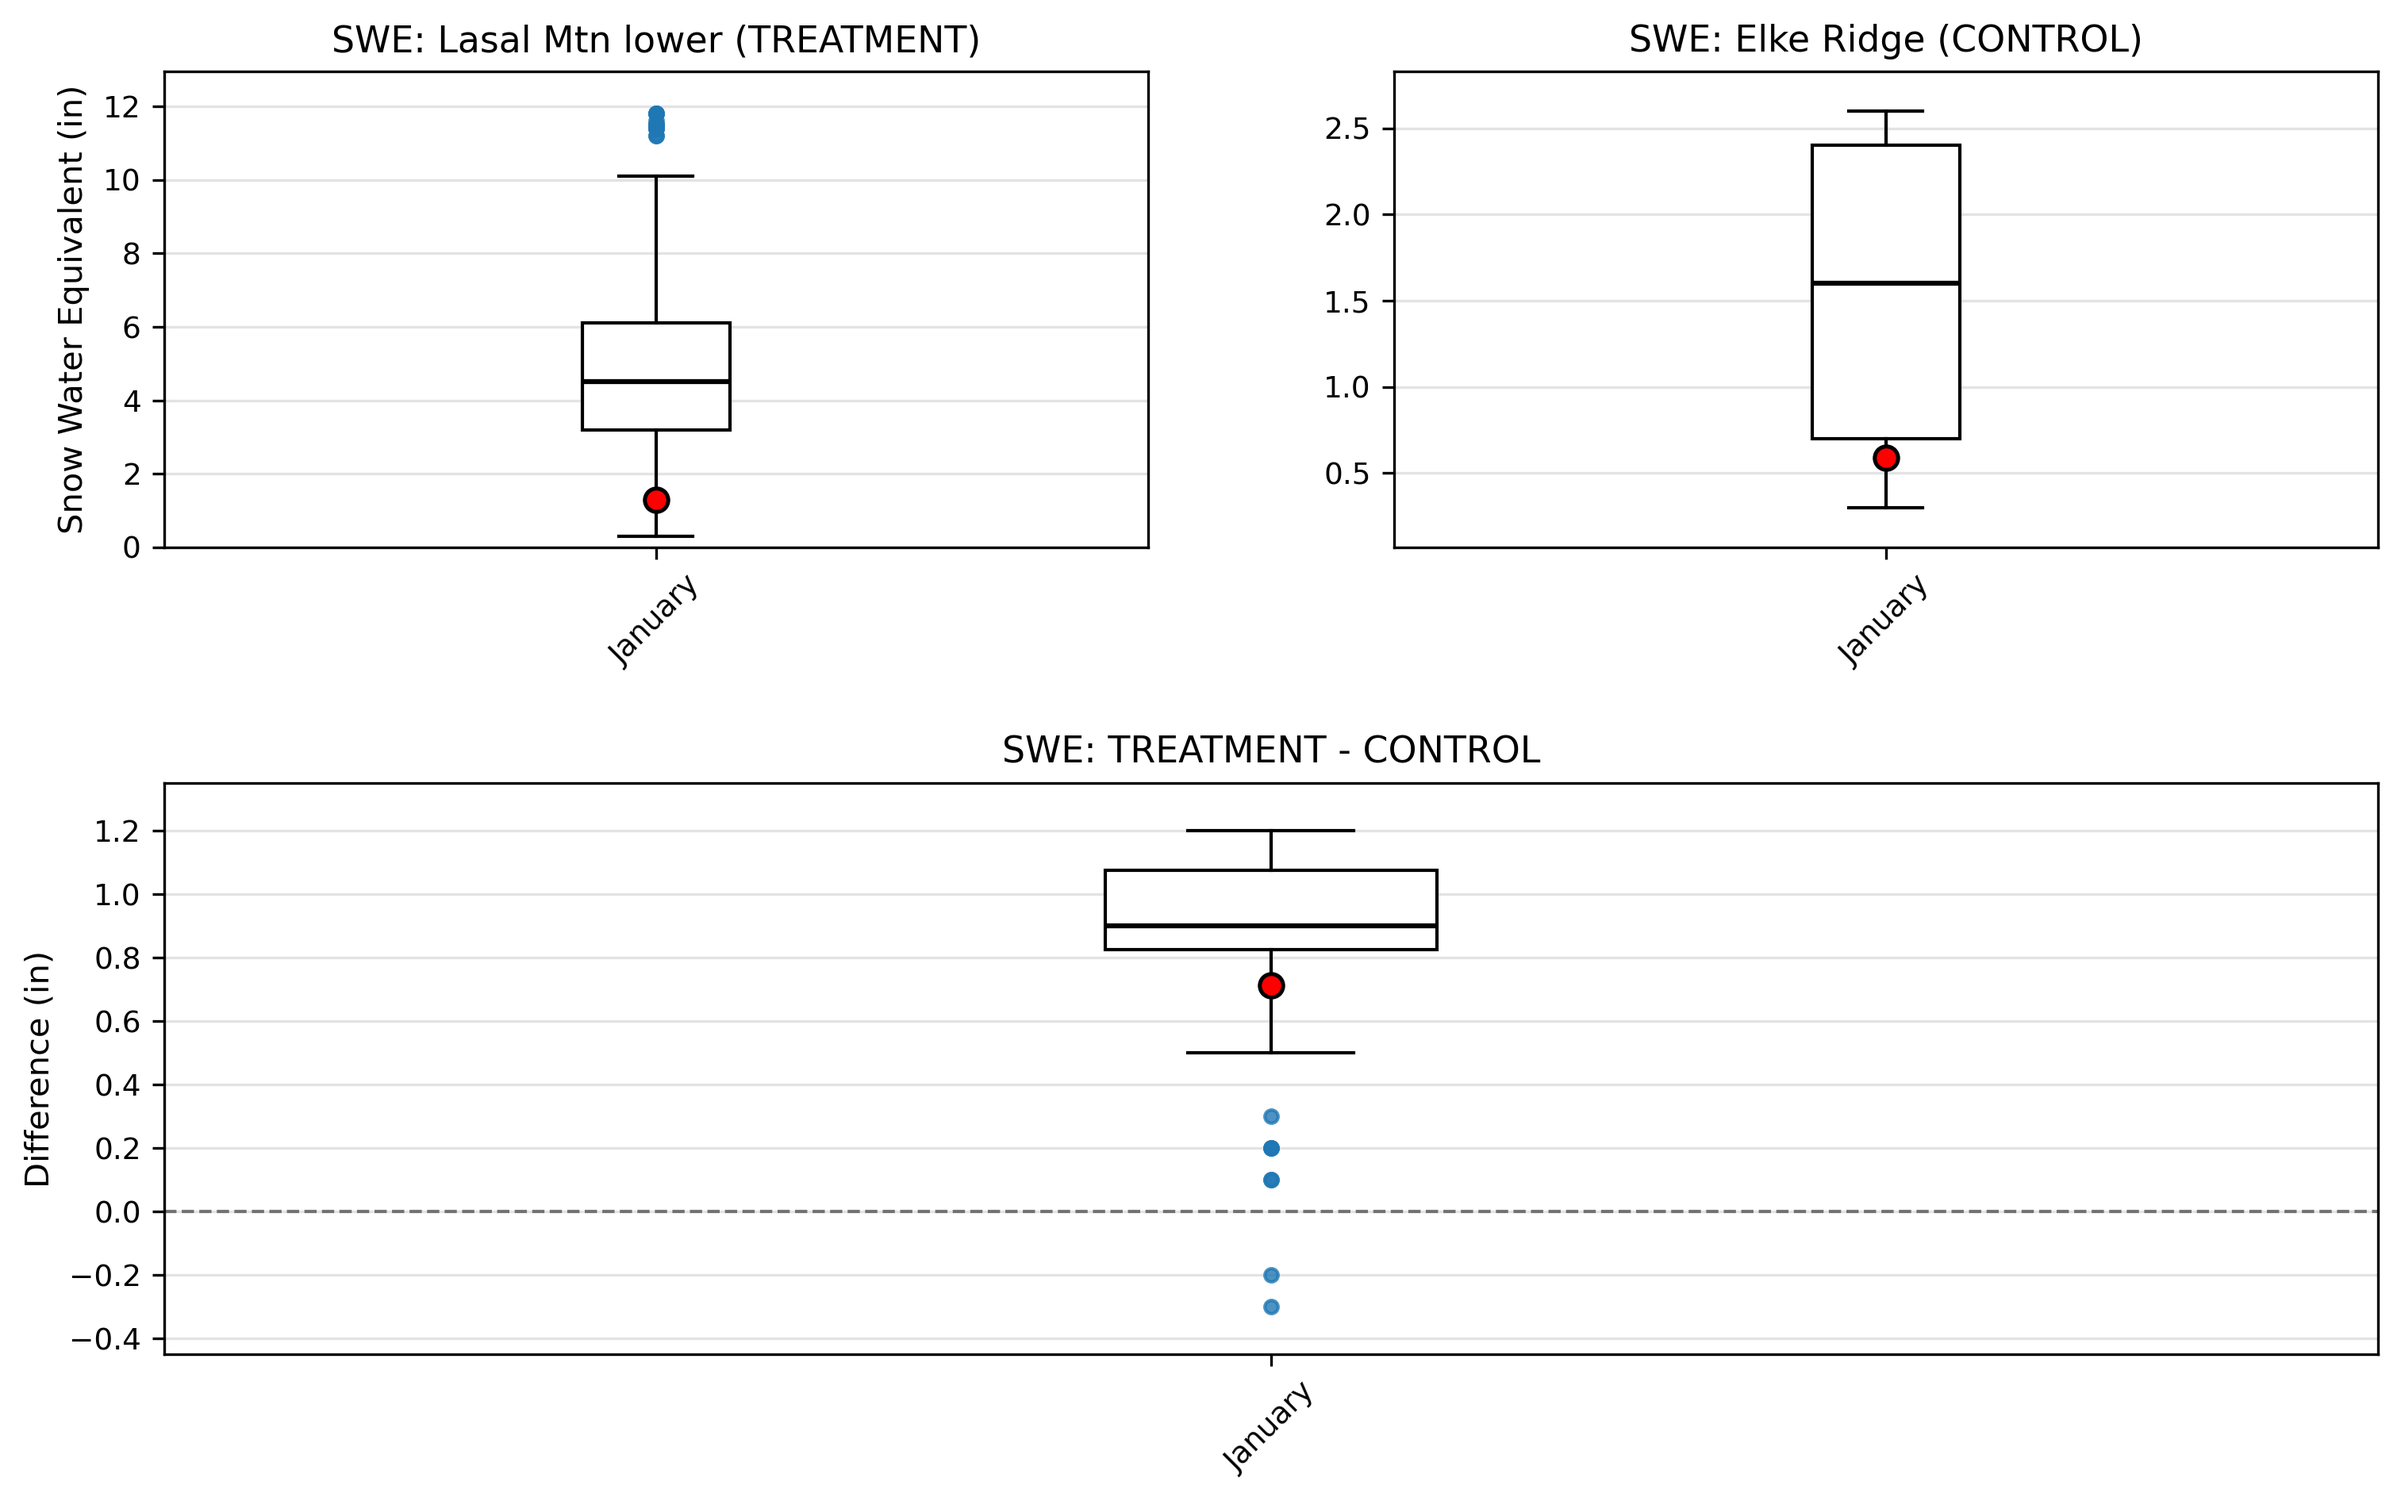
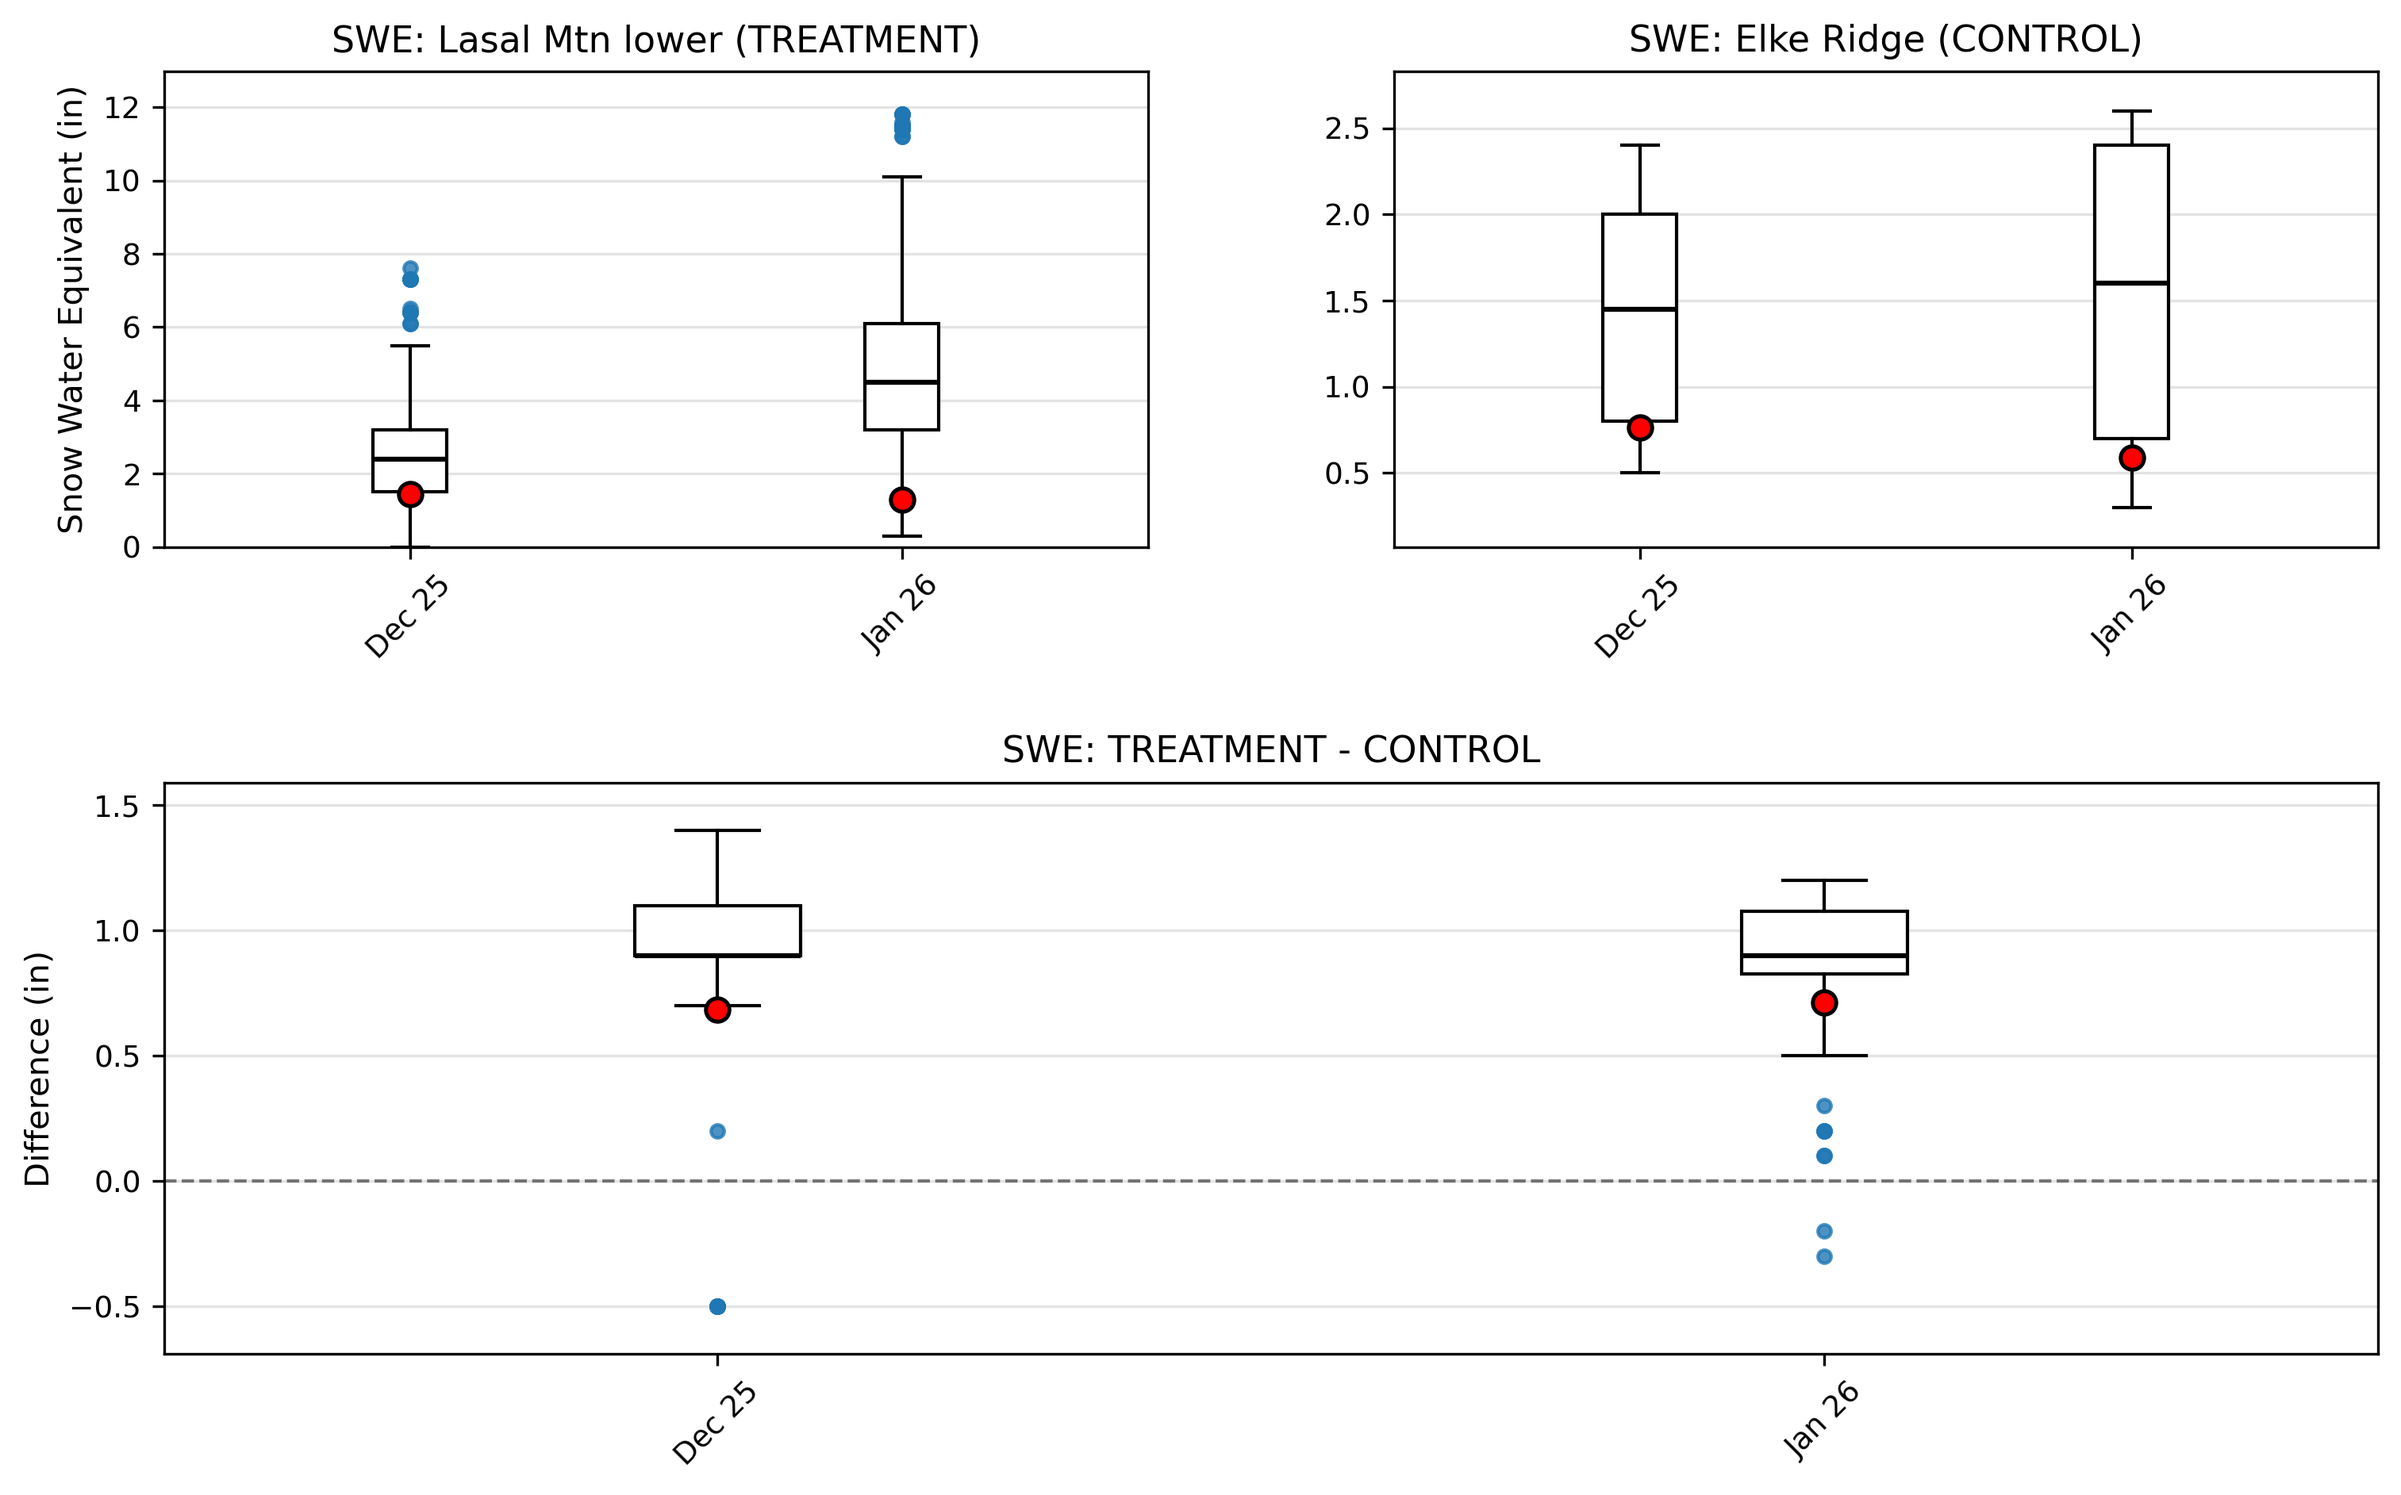
Boxplots: add December + January climatology with Dec(prev yr) and Jan(current yr) red markers
Made-with: Cursor

diff --git a/scripts/plot_generators.py b/scripts/plot_generators.py
@@ -317,55 +317,76 @@ def plot_snow_depth_boxplots(treatment_station, control_station, month, year,
     control_df['month'] = control_df['Date'].dt.month
     control_df['year'] = control_df['Date'].dt.year
     
-    # Only show the month of interest
+    # We want climatological December and January boxplots, with Dec of the
+    # previous year and Jan of the report year highlighted, similar to the
+    # February report figure.
     month_name = calendar.month_name[highlight_month] if highlight_month else calendar.month_name[month]
     target_month = highlight_month if highlight_month else month
     
-    treatment_groups = []
-    control_groups = []
-    diff_groups = []
-    labels = []
+    # Build groups for December (previous year) and January (report year)
+    months_to_plot = [12, target_month]
+    month_labels = [
+        f"Dec {str(year-1)[-2:]}",
+        f"{month_name[:3]} {str(year)[-2:]}"
+    ]
     
-    highlight_idx = None
-    highlight_vals = None
-    highlight_label = None
+    treatment_groups: list[np.ndarray] = []
+    control_groups: list[np.ndarray] = []
+    diff_groups: list[np.ndarray] = []
+    labels: list[str] = []
     
-    # Climatological boxplot: all years of the target month (e.g. all January values), with highlight_year highlighted
-    t_data = treatment_df[treatment_df['month'] == target_month]['Value'].dropna().values
-    c_data = control_df[control_df['month'] == target_month]['Value'].dropna().values
+    highlight_idxs: list[int] = []
+    highlight_t: list[float] = []
+    highlight_c: list[float] = []
+    highlight_d: list[float] = []
     
-    if len(t_data) > 0 and len(c_data) > 0:
-        # Merge on date to get differences for all years
-        t_month = treatment_df[treatment_df['month'] == target_month].set_index('Date')['Value']
-        c_month = control_df[control_df['month'] == target_month].set_index('Date')['Value']
+    for idx, (m, label) in enumerate(zip(months_to_plot, month_labels), start=1):
+        t_data = treatment_df[treatment_df['month'] == m]['Value'].dropna().values
+        c_data = control_df[control_df['month'] == m]['Value'].dropna().values
+        
+        if len(t_data) == 0 or len(c_data) == 0:
+            continue
+        
+        # Merge on date to get differences for all years for this month
+        t_month = treatment_df[treatment_df['month'] == m].set_index('Date')['Value']
+        c_month = control_df[control_df['month'] == m].set_index('Date')['Value']
         
         merged = pd.DataFrame({'Treatment': t_month, 'Control': c_month})
         merged = merged.dropna()
         merged['Diff'] = merged['Treatment'] - merged['Control']
         
-        if len(merged) > 0:
-            treatment_groups.append(t_data)
-            control_groups.append(c_data)
-            diff_groups.append(merged['Diff'].values)
-            labels.append(month_name)
-            
-            # Highlight only the highlight year (e.g. January 2026) — mean of that month in that year
-            if highlight_year:
-                highlight_idx = 1  # One box, index 1
-                merged_yr = merged[merged.index.year == highlight_year]
-                if len(merged_yr) > 0:
-                    highlight_vals = {
-                        't': float(merged_yr['Treatment'].mean()),
-                        'c': float(merged_yr['Control'].mean()),
-                        'd': float(merged_yr['Diff'].mean())
-                    }
-                else:
-                    highlight_vals = None
-                highlight_label = None
+        if len(merged) == 0:
+            continue
+        
+        treatment_groups.append(t_data)
+        control_groups.append(c_data)
+        diff_groups.append(merged['Diff'].values)
+        labels.append(label)
+        
+        # Highlight year: previous year for December, report year for January
+        if m == 12:
+            hy = year - 1
+        else:
+            hy = year
+        
+        merged_yr = merged[merged.index.year == hy]
+        if len(merged_yr) > 0:
+            highlight_idxs.append(idx)
+            highlight_t.append(float(merged_yr['Treatment'].mean()))
+            highlight_c.append(float(merged_yr['Control'].mean()))
+            highlight_d.append(float(merged_yr['Diff'].mean()))
     
     if not labels:
-        print("Warning: No overlapping data found")
+        print("Warning: No overlapping data found for December/January")
         return None
+    
+    highlight_vals = None
+    if highlight_idxs and highlight_t and highlight_c and highlight_d:
+        highlight_vals = {
+            't': highlight_t,
+            'c': highlight_c,
+            'd': highlight_d
+        }
     
     # Create three-panel plot
     fig = plt.figure(figsize=(12, 7))
@@ -421,22 +442,25 @@ def plot_snow_depth_boxplots(treatment_station, control_station, month, year,
     ax3.grid(axis="y", alpha=0.35, linestyle='-')
     ax3.axhline(y=0, color='black', linestyle='--', linewidth=1, alpha=0.5)
 
-    # Red circle = January of highlight year (current year); blue fliers already set above = climatological outliers
-    if highlight_idx is not None and highlight_vals is not None:
-        def annotate_dot(ax, x, y):
-            if x is not None and y is not None and np.isfinite(y):
-                ax.scatter([x], [y], s=50, color='red', edgecolors='black',
-                          linewidths=1.2, zorder=25, marker='o')
+    # Red circles = December (previous year) and January (current year);
+    # blue fliers already set above = climatological outliers.
+    if highlight_vals is not None:
+        def annotate_dots(ax, xs, ys):
+            for x, y in zip(xs, ys):
+                if x is not None and y is not None and np.isfinite(y):
+                    ax.scatter([x], [y], s=50, color='red', edgecolors='black',
+                               linewidths=1.2, zorder=25, marker='o')
 
-        annotate_dot(ax1, highlight_idx, highlight_vals['t'])
-        annotate_dot(ax2, highlight_idx, highlight_vals['c'])
-        annotate_dot(ax3, highlight_idx, highlight_vals['d'])
+        annotate_dots(ax1, highlight_idxs, highlight_vals['t'])
+        annotate_dots(ax2, highlight_idxs, highlight_vals['c'])
+        annotate_dots(ax3, highlight_idxs, highlight_vals['d'])
     
     # Set dynamic y-limits for each panel based on their own data
-    # Treatment panel (ax1) - snow depth can't be negative, so start at 0
-    if treatment_groups and len(treatment_groups[0]) > 0:
-        t_values = treatment_groups[0]
-        if highlight_vals and highlight_vals['t'] is not None:
+    # Set dynamic y-limits for each panel based on all data points
+    # Treatment panel (ax1) - SWE/snow depth can't be negative, so start at 0
+    if treatment_groups:
+        t_values = np.concatenate(treatment_groups)
+        if highlight_vals is not None:
             t_values = np.append(t_values, highlight_vals['t'])
         t_min = max(0, np.nanmin(t_values))  # Ensure non-negative
         t_max = np.nanmax(t_values)
@@ -444,10 +468,10 @@ def plot_snow_depth_boxplots(treatment_station, control_station, month, year,
         t_padding = max(0.1 * t_range, 0.05 * t_max) if t_range > 0 else 0.05 * t_max if t_max > 0 else 1
         ax1.set_ylim(max(0, t_min - t_padding), t_max + t_padding)
     
-    # Control panel (ax2) - snow depth can't be negative, so start at 0
-    if control_groups and len(control_groups[0]) > 0:
-        c_values = control_groups[0]
-        if highlight_vals and highlight_vals['c'] is not None:
+    # Control panel (ax2) - SWE/snow depth can't be negative, so start at 0
+    if control_groups:
+        c_values = np.concatenate(control_groups)
+        if highlight_vals is not None:
             c_values = np.append(c_values, highlight_vals['c'])
         c_min = max(0, np.nanmin(c_values))  # Ensure non-negative
         c_max = np.nanmax(c_values)
@@ -456,9 +480,9 @@ def plot_snow_depth_boxplots(treatment_station, control_station, month, year,
         ax2.set_ylim(max(0, c_min - c_padding), c_max + c_padding)
     
     # Difference panel (ax3) - can be negative, so use full range
-    if diff_groups and len(diff_groups[0]) > 0:
-        d_values = diff_groups[0]
-        if highlight_vals and highlight_vals['d'] is not None:
+    if diff_groups:
+        d_values = np.concatenate(diff_groups)
+        if highlight_vals is not None:
             d_values = np.append(d_values, highlight_vals['d'])
         d_min = np.nanmin(d_values)
         d_max = np.nanmax(d_values)
